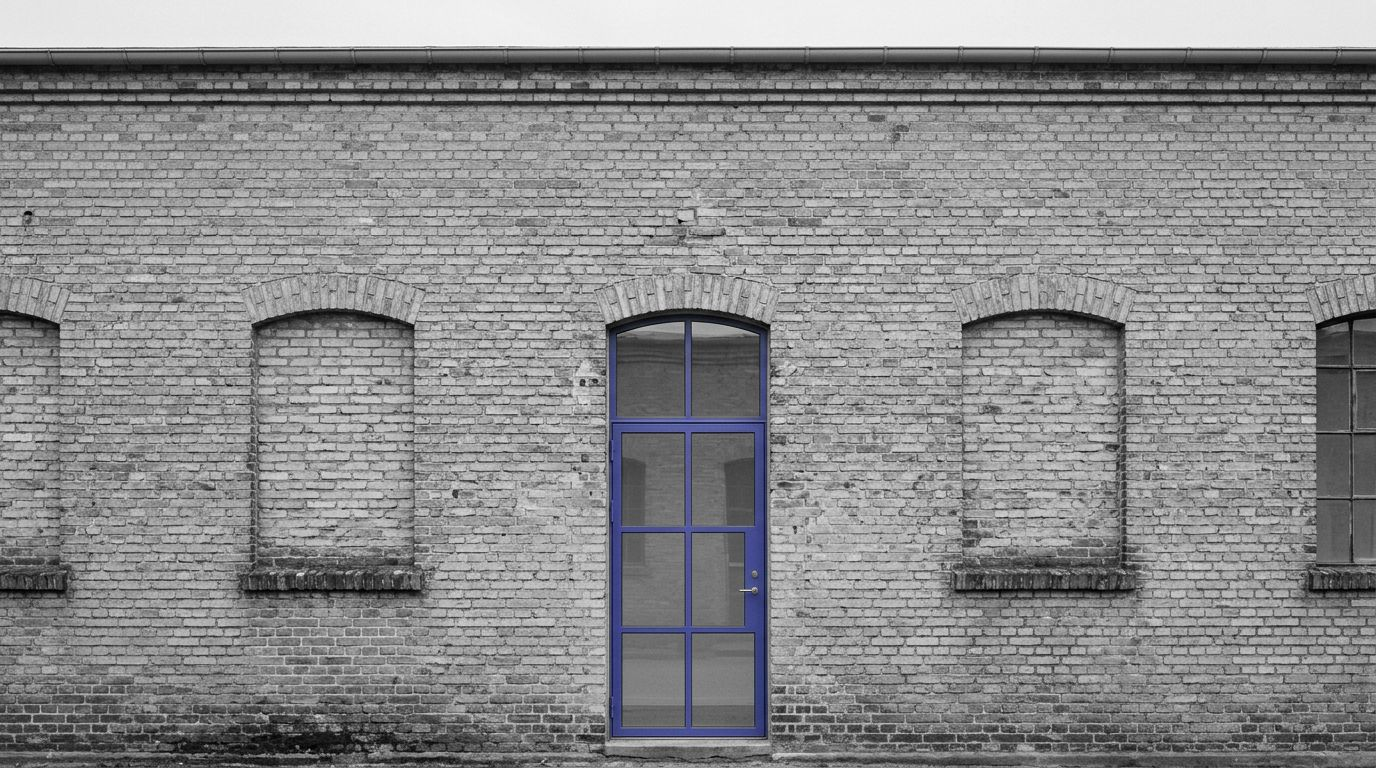
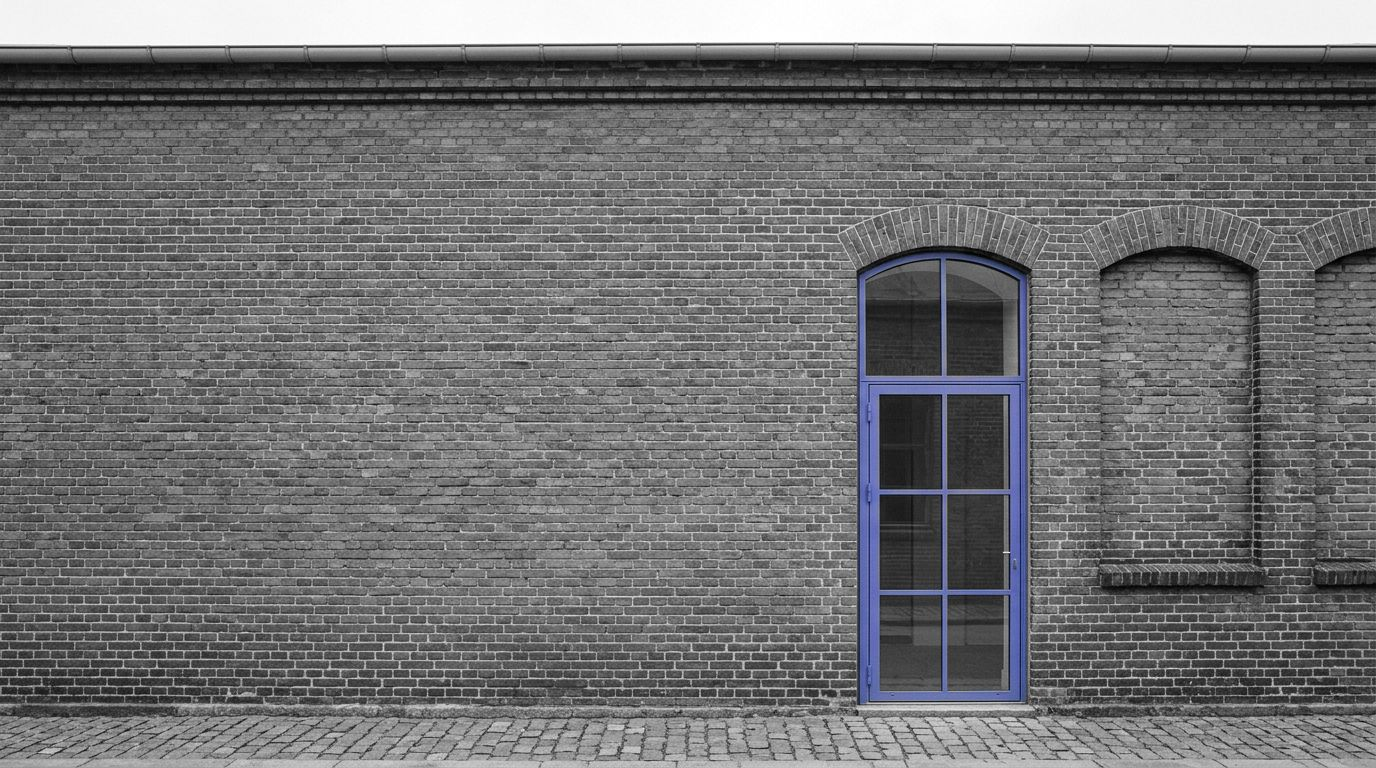
web-s5: headline painted on the hero wall, door moved right

diff --git a/src/styles/global.css b/src/styles/global.css
@@ -49,7 +49,12 @@ a { color: inherit; }
 .hero h1 span + span { font-style: italic; padding-left: .6em; }
 .hero .foot { display: grid; grid-template-columns: 1fr auto; align-items: end; gap: var(--space-m); margin-top: var(--space-l); padding-top: var(--space-m); }
 .hero p { margin: 0; max-width: 32rem; font-family: var(--serif); font-size: var(--step-2); line-height: 1.3; }
-.hero .bleed { width: 100%; height: auto; aspect-ratio: 21 / 9; object-fit: cover; object-position: 50% 100%; margin-top: var(--space-l); background: var(--paper-deep); }
+/* With an image the headline is painted onto the wall: live text, the brick shows through the paint. */
+.hero.cover { padding-top: 0; }
+.hero .wall { position: relative; }
+.hero .bleed { width: 100%; height: auto; aspect-ratio: 21 / 9; object-fit: cover; object-position: 50% 100%; background: var(--paper-deep); }
+.hero .wall .wrap { position: absolute; inset: 0; display: flex; align-items: center; }
+.hero .painted { color: rgb(255 255 255 / .9); mix-blend-mode: hard-light; text-shadow: 0 0 1px rgb(0 0 0 / .15); }
 
 section.block { padding-block: var(--space-xl); }
 section.tint { background: var(--panel); }
@@ -124,7 +129,7 @@ footer a:hover { color: var(--accent); }
 
 @media (max-width: 900px) {
   .cols { grid-template-columns: 1fr; }
-  .hero .bleed { aspect-ratio: 4 / 3; }
+  .hero .bleed { aspect-ratio: 4 / 3; object-position: 8% 100%; }
   .steps li { grid-template-columns: 3rem 1fr; }
   .steps .mood { grid-column: 1 / -1; grid-row: 1; margin-bottom: .5rem; }
   .net { grid-template-columns: 4rem 1fr; }

diff --git a/src/content/sections/hero.md b/src/content/sections/hero.md
@@ -9,6 +9,6 @@ subline: We help established SMEs and a few startups make the big calls – and 
 cta: Book a coffee
 image:
   file: hero-new-in-old.jpg
-  alt: An old brick industrial wall with bricked-up arched windows and one new steel-framed glass door in purple
+  alt: An old brick industrial wall with a long plain stretch, one new steel-framed glass door in purple and bricked-up arched windows beside it
   credit: Generated with Google Gemini, edited by Strategy
 ---
